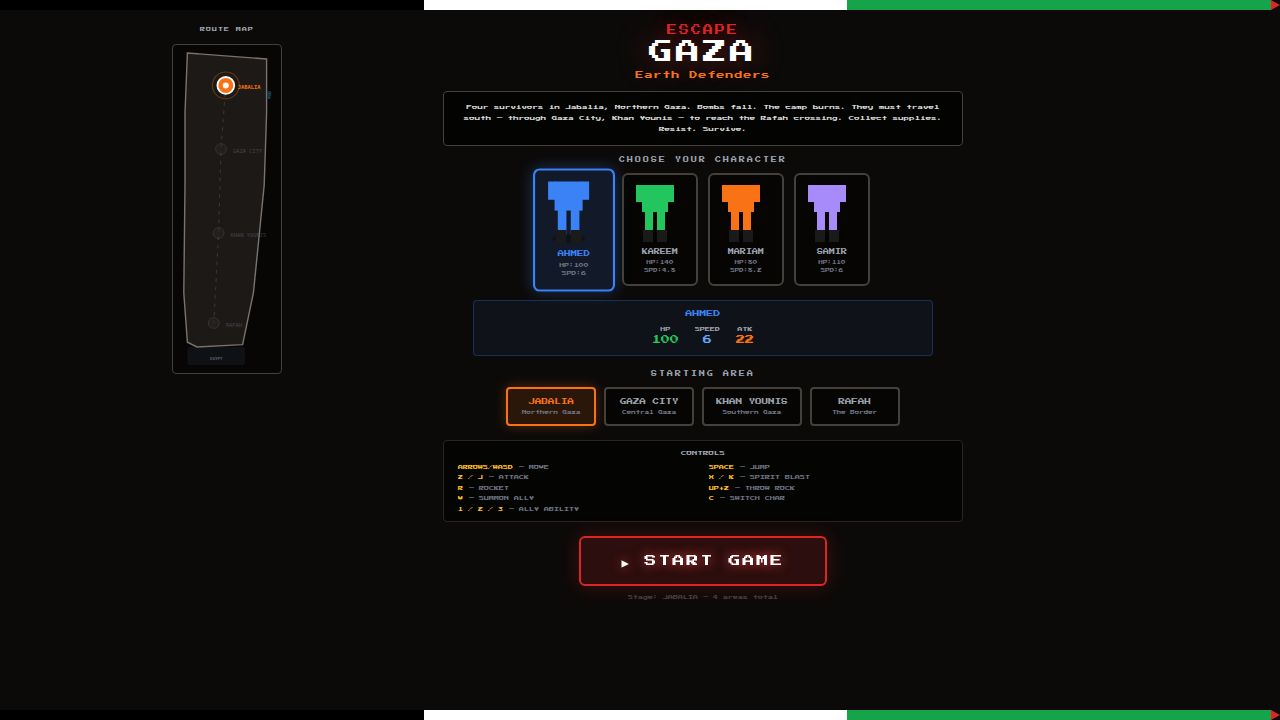
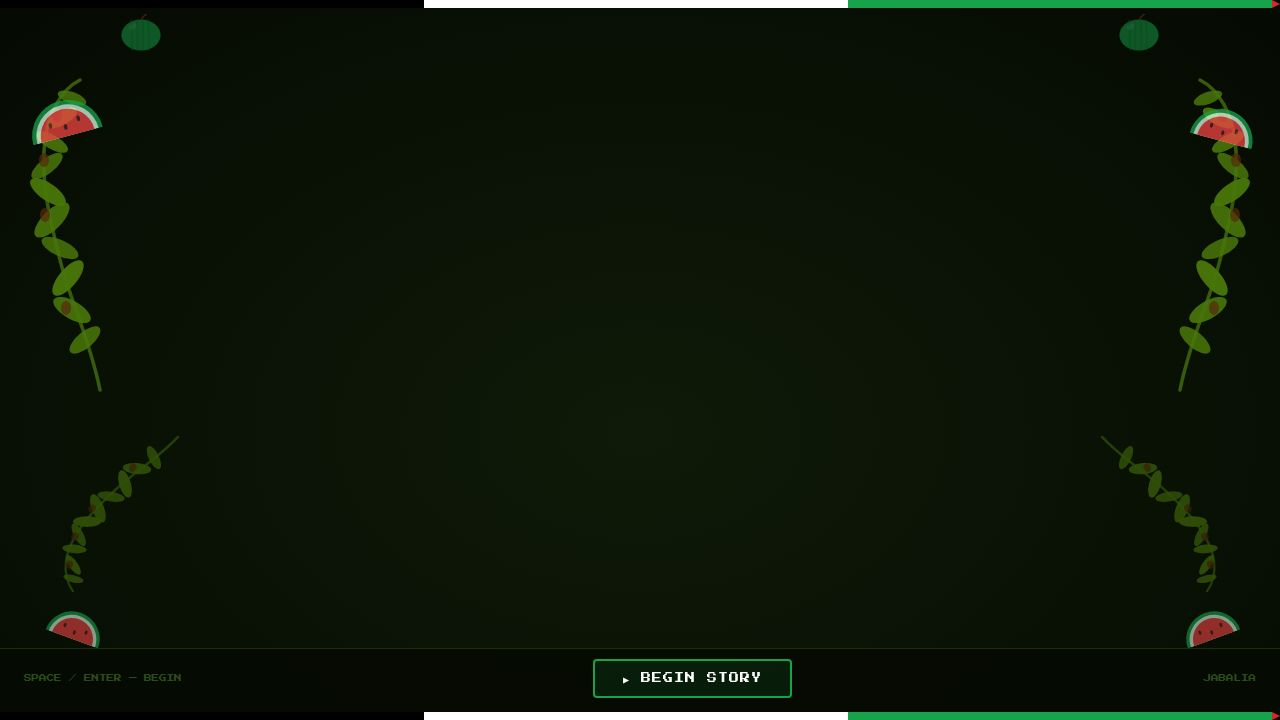
Update project configuration to resolve build errors
Modify Vite configuration by commenting out runtimeErrorOverlay in vite.config.ts and updating opengraph.jpg.

Replit-Commit-Author: Agent
Replit-Commit-Session-Id: c2992e06-7fff-43a7-9f69-9f5b1ff8f607
Replit-Commit-Checkpoint-Type: full_checkpoint
Replit-Commit-Event-Id: 8b68ed35-faa7-436e-90d5-a91d137d7c0d
Replit-Commit-Screenshot-Url: https://storage.googleapis.com/screenshot-production-us-central1/01edba0d-1004-477b-9d9f-c6e4ee0adc6f/c2992e06-7fff-43a7-9f69-9f5b1ff8f607/iLa5xWE
Replit-Helium-Checkpoint-Created: true

diff --git a/artifacts/gaza-forever/vite.config.ts b/artifacts/gaza-forever/vite.config.ts
@@ -31,7 +31,7 @@ export default defineConfig({
   plugins: [
     react(),
     tailwindcss(),
-    runtimeErrorOverlay(),
+    //runtimeErrorOverlay(),
     ...(process.env.NODE_ENV !== "production" &&
     process.env.REPL_ID !== undefined
       ? [